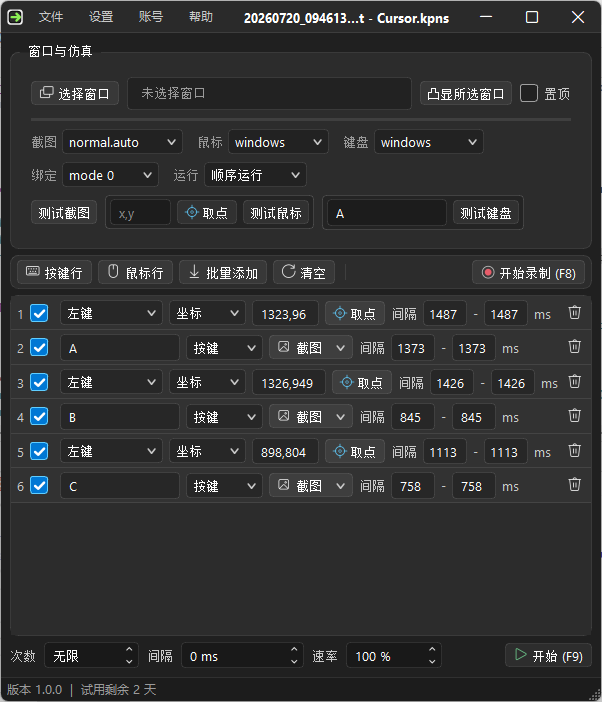
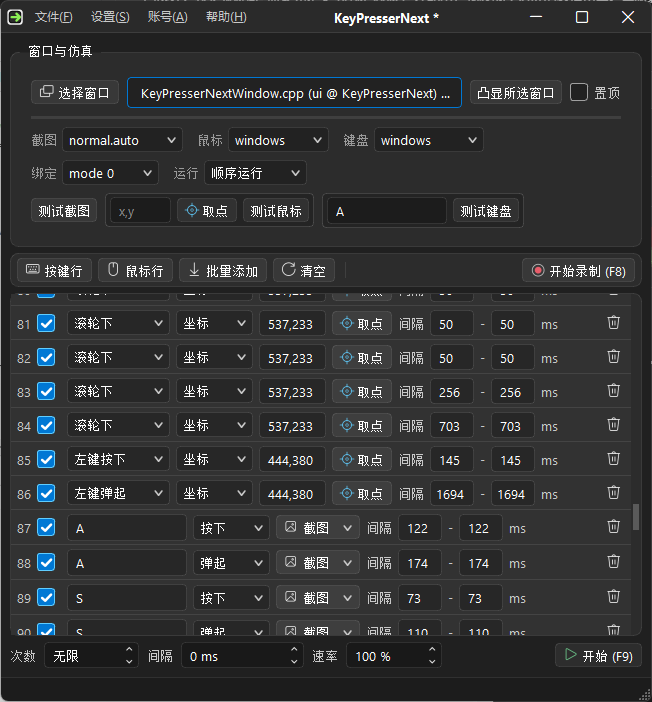
更新 KeyPresserNext 预告界面截图。

diff --git a/index.html b/index.html
@@ -3692,7 +3692,7 @@
                         </div>
                     </div>
                     <div class="next-preview-wrap">
-                        <img src="keypresser-next-preview.png" alt="KeyPresserNext 界面预览" width="602" height="702" loading="lazy" onclick="openImageModal(this.src)">
+                        <img src="keypresser-next-preview.png" alt="KeyPresserNext 界面预览" width="652" height="702" loading="lazy" onclick="openImageModal(this.src)">
                         <span class="next-preview-caption">界面预览 · 开发中</span>
                     </div>
                 </div>